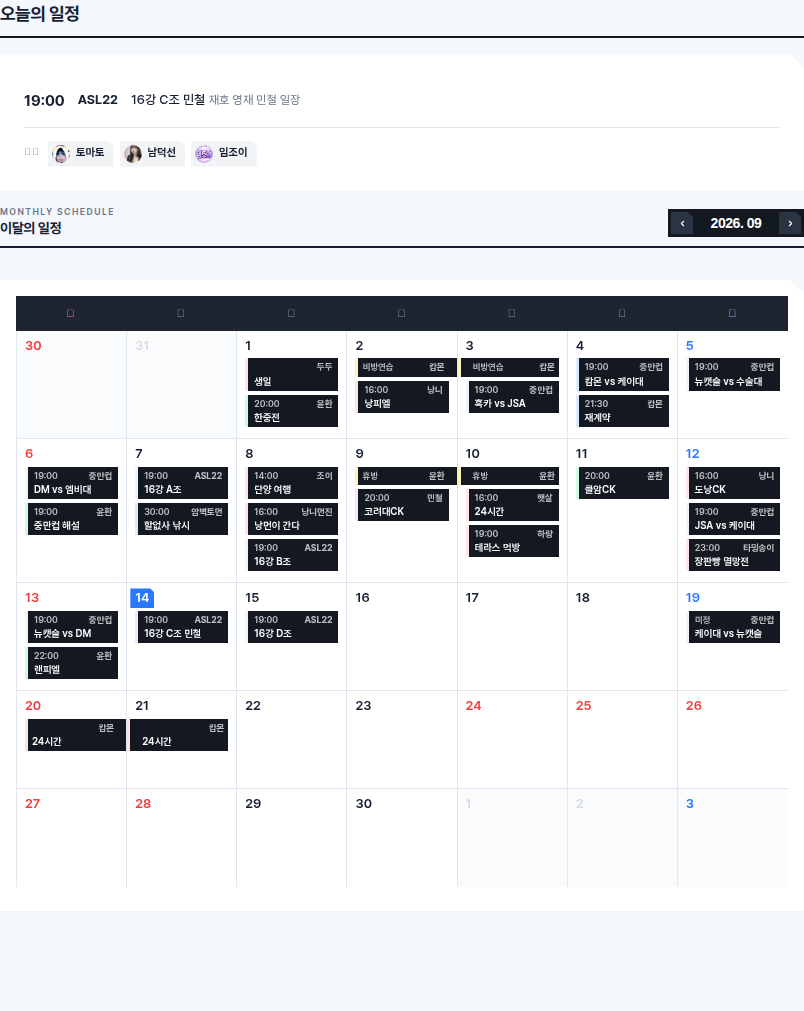
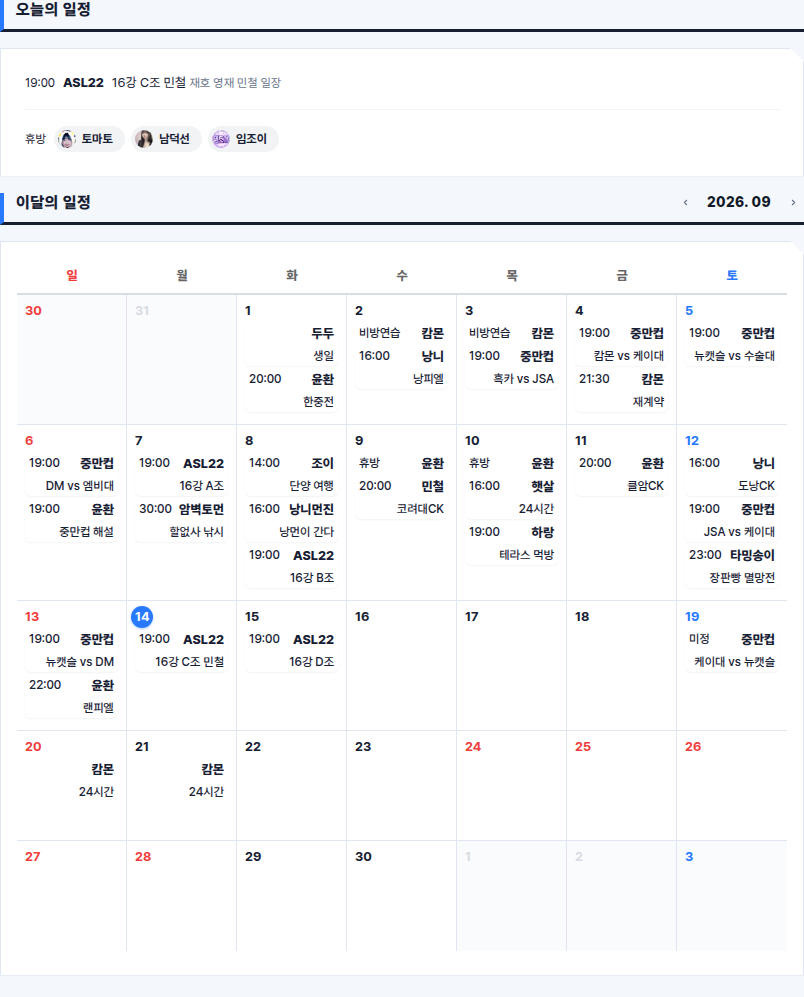
Add files via upload

diff --git a/docs/redesign.css b/docs/redesign.css
@@ -1539,3 +1539,123 @@ tbody tr:first-child .synergy-bar i { background: #141821; }
 }
 
 /* 5. 어드민은 본 페이지의 redesign.css를 함께 사용하므로 일정표도 동일한 노치/색상 규칙을 공유한다. */
+
+
+/* ============================================================
+   사용자 추가 보정 — 일정 색상 / 섹션 레일 / 노치 윤곽
+   ============================================================ */
+
+/* 일정 색상은 왼쪽 엣지만 바꾸는 것이 아니라 일정 박스 전체 배경에 적용한다. */
+.cal-cell-event,
+.cal-cell-event.cal-longterm-bar {
+    background: var(--ev-color, var(--color-ink, #141821)) !important;
+    color: #fff;
+    border-left: 3px solid rgba(255,255,255,.26);
+    clip-path: polygon(0 0, calc(100% - 5px) 0, 100% 5px, 100% 100%, 0 100%) !important;
+    filter: drop-shadow(0 0 0 var(--color-border));
+}
+.cal-day-cell.today .cal-cell-event,
+.cal-day-cell.today .cal-cell-event.cal-longterm-bar {
+    background: var(--ev-color, var(--color-ink, #141821)) !important;
+}
+.cal-event-desc {
+    text-align: right !important;
+}
+
+/* 일정 제목/오늘의 일정/티어 제목의 영문 레일은 다른 section-title과 동일하게 통일한다.
+   한국어 제목 아래의 가로 구분선과 같은 축을 유지하고, 영문은 위 한 줄을 사용한다. */
+.section-title.cal-month-section-title {
+    display: flex !important;
+    flex-wrap: wrap !important;
+    align-items: center !important;
+    gap: 0 !important;
+    min-height: 32px !important;
+    height: auto !important;
+    padding: 0 0 9px !important;
+    margin-bottom: 16px !important;
+    border-left: 0 !important;
+    border-bottom: 2px solid var(--color-text-main) !important;
+}
+.section-title.cal-month-section-title::before {
+    content: attr(data-en) !important;
+    flex: 0 0 100% !important;
+    order: -1 !important;
+    display: block !important;
+    margin: 0 0 5px 0 !important;
+    color: var(--color-text-sub) !important;
+    font-family: 'Chakra Petch','Pretendard',sans-serif !important;
+    font-size: 9px !important;
+    font-weight: 600 !important;
+    line-height: 1 !important;
+    letter-spacing: .16em !important;
+    text-transform: uppercase !important;
+}
+.section-title.cal-month-section-title .section-title-label {
+    order: 1 !important;
+    flex: 0 0 auto !important;
+    display: inline-flex !important;
+    align-items: center !important;
+}
+.section-title.cal-month-section-title .cal-nav-group {
+    order: 2 !important;
+    margin-left: auto !important;
+}
+
+/* 티어 제목도 영문 레일이 다른 section-title과 같은 한 줄 폭을 갖도록 고정한다. */
+.tier-row > .section-title[data-en] {
+    display: flex !important;
+    flex-wrap: wrap !important;
+    align-items: center !important;
+}
+.tier-row > .section-title[data-en]::before {
+    flex: 0 0 100% !important;
+    order: -1 !important;
+    display: block !important;
+    margin-bottom: 5px !important;
+}
+
+/* 노치 버튼의 테두리는 border가 아니라 잘린 외곽선을 따라가는 drop-shadow로 만든다. */
+.home-carousel .home-hero-links a {
+    position: relative;
+    border: 0 !important;
+    clip-path: polygon(0 0, calc(100% - 8px) 0, 100% 8px, 100% 100%, 0 100%) !important;
+    filter: drop-shadow(0 0 0 rgba(255,255,255,.32));
+}
+.home-carousel .home-hero-links a::before {
+    content: none !important;
+}
+.home-carousel .home-hero-links a:hover {
+    filter: drop-shadow(0 0 0 var(--color-primary));
+}
+
+/* 홈 최근공지: 목록의 첫 카드만 노치. 이어지는 카드들은 하나의 세로 리스트로 유지한다. */
+.home-notice-list > .home-notice-card {
+    clip-path: none !important;
+    filter: none;
+}
+.home-notice-list > .home-notice-card:first-child {
+    clip-path: polygon(0 0, calc(100% - 14px) 0, 100% 14px, 100% 100%, 0 100%) !important;
+    filter: drop-shadow(0 0 0 var(--color-border));
+}
+
+/* 공지 페이지 오른쪽 지난 글 목록도 목록 전체 외곽만 노치 처리한다. */
+#news-past-list {
+    clip-path: polygon(0 0, calc(100% - 14px) 0, 100% 14px, 100% 100%, 0 100%) !important;
+    filter: drop-shadow(0 0 0 var(--color-border));
+}
+#news-past-list .home-notice-card {
+    clip-path: none !important;
+    filter: none;
+}
+
+/* 티어 사이드바 전체/방송중 바는 바 자체의 노치 윤곽을 살리고 내부 선택지는 그대로 둔다. */
+.selection-layout > .tier-bar .bar-scope {
+    clip-path: polygon(0 0, calc(100% - 8px) 0, 100% 8px, 100% 100%, 0 100%) !important;
+    filter: drop-shadow(0 0 0 var(--color-border));
+}
+
+/* 선택 박스/영문 레일 등 작은 노치 요소의 외곽선도 동일한 방식으로 보강 */
+.section-title,
+.section-title-sm {
+    position: relative;
+}

diff --git a/templates/assets/redesign.css b/templates/assets/redesign.css
@@ -1539,3 +1539,123 @@ tbody tr:first-child .synergy-bar i { background: #141821; }
 }
 
 /* 5. 어드민은 본 페이지의 redesign.css를 함께 사용하므로 일정표도 동일한 노치/색상 규칙을 공유한다. */
+
+
+/* ============================================================
+   사용자 추가 보정 — 일정 색상 / 섹션 레일 / 노치 윤곽
+   ============================================================ */
+
+/* 일정 색상은 왼쪽 엣지만 바꾸는 것이 아니라 일정 박스 전체 배경에 적용한다. */
+.cal-cell-event,
+.cal-cell-event.cal-longterm-bar {
+    background: var(--ev-color, var(--color-ink, #141821)) !important;
+    color: #fff;
+    border-left: 3px solid rgba(255,255,255,.26);
+    clip-path: polygon(0 0, calc(100% - 5px) 0, 100% 5px, 100% 100%, 0 100%) !important;
+    filter: drop-shadow(0 0 0 var(--color-border));
+}
+.cal-day-cell.today .cal-cell-event,
+.cal-day-cell.today .cal-cell-event.cal-longterm-bar {
+    background: var(--ev-color, var(--color-ink, #141821)) !important;
+}
+.cal-event-desc {
+    text-align: right !important;
+}
+
+/* 일정 제목/오늘의 일정/티어 제목의 영문 레일은 다른 section-title과 동일하게 통일한다.
+   한국어 제목 아래의 가로 구분선과 같은 축을 유지하고, 영문은 위 한 줄을 사용한다. */
+.section-title.cal-month-section-title {
+    display: flex !important;
+    flex-wrap: wrap !important;
+    align-items: center !important;
+    gap: 0 !important;
+    min-height: 32px !important;
+    height: auto !important;
+    padding: 0 0 9px !important;
+    margin-bottom: 16px !important;
+    border-left: 0 !important;
+    border-bottom: 2px solid var(--color-text-main) !important;
+}
+.section-title.cal-month-section-title::before {
+    content: attr(data-en) !important;
+    flex: 0 0 100% !important;
+    order: -1 !important;
+    display: block !important;
+    margin: 0 0 5px 0 !important;
+    color: var(--color-text-sub) !important;
+    font-family: 'Chakra Petch','Pretendard',sans-serif !important;
+    font-size: 9px !important;
+    font-weight: 600 !important;
+    line-height: 1 !important;
+    letter-spacing: .16em !important;
+    text-transform: uppercase !important;
+}
+.section-title.cal-month-section-title .section-title-label {
+    order: 1 !important;
+    flex: 0 0 auto !important;
+    display: inline-flex !important;
+    align-items: center !important;
+}
+.section-title.cal-month-section-title .cal-nav-group {
+    order: 2 !important;
+    margin-left: auto !important;
+}
+
+/* 티어 제목도 영문 레일이 다른 section-title과 같은 한 줄 폭을 갖도록 고정한다. */
+.tier-row > .section-title[data-en] {
+    display: flex !important;
+    flex-wrap: wrap !important;
+    align-items: center !important;
+}
+.tier-row > .section-title[data-en]::before {
+    flex: 0 0 100% !important;
+    order: -1 !important;
+    display: block !important;
+    margin-bottom: 5px !important;
+}
+
+/* 노치 버튼의 테두리는 border가 아니라 잘린 외곽선을 따라가는 drop-shadow로 만든다. */
+.home-carousel .home-hero-links a {
+    position: relative;
+    border: 0 !important;
+    clip-path: polygon(0 0, calc(100% - 8px) 0, 100% 8px, 100% 100%, 0 100%) !important;
+    filter: drop-shadow(0 0 0 rgba(255,255,255,.32));
+}
+.home-carousel .home-hero-links a::before {
+    content: none !important;
+}
+.home-carousel .home-hero-links a:hover {
+    filter: drop-shadow(0 0 0 var(--color-primary));
+}
+
+/* 홈 최근공지: 목록의 첫 카드만 노치. 이어지는 카드들은 하나의 세로 리스트로 유지한다. */
+.home-notice-list > .home-notice-card {
+    clip-path: none !important;
+    filter: none;
+}
+.home-notice-list > .home-notice-card:first-child {
+    clip-path: polygon(0 0, calc(100% - 14px) 0, 100% 14px, 100% 100%, 0 100%) !important;
+    filter: drop-shadow(0 0 0 var(--color-border));
+}
+
+/* 공지 페이지 오른쪽 지난 글 목록도 목록 전체 외곽만 노치 처리한다. */
+#news-past-list {
+    clip-path: polygon(0 0, calc(100% - 14px) 0, 100% 14px, 100% 100%, 0 100%) !important;
+    filter: drop-shadow(0 0 0 var(--color-border));
+}
+#news-past-list .home-notice-card {
+    clip-path: none !important;
+    filter: none;
+}
+
+/* 티어 사이드바 전체/방송중 바는 바 자체의 노치 윤곽을 살리고 내부 선택지는 그대로 둔다. */
+.selection-layout > .tier-bar .bar-scope {
+    clip-path: polygon(0 0, calc(100% - 8px) 0, 100% 8px, 100% 100%, 0 100%) !important;
+    filter: drop-shadow(0 0 0 var(--color-border));
+}
+
+/* 선택 박스/영문 레일 등 작은 노치 요소의 외곽선도 동일한 방식으로 보강 */
+.section-title,
+.section-title-sm {
+    position: relative;
+}

diff --git a/docs/admin.html b/docs/admin.html
@@ -248,14 +248,14 @@
                     </div>
                     <div class="admin-form-row">
                         <select id="inputColor">
-                            <option value="#ffe4e6">🔴 빨강</option>
-                            <option value="#ffedd5">🟠 주황</option>
-                            <option value="#fef3c7">🟡 노랑</option>
-                            <option value="#d1fae5" selected>🟢 초록</option>
-                            <option value="#dbeafe">🔵 파랑</option>
-                            <option value="#e0e7ff">🟤 남색</option>
-                            <option value="#f3e8ff">🟣 보라</option>
-                            <option value="#f1f5f9">⚪ 회색</option>
+                            <option value="#ef4444">🔴 빨강</option>
+                            <option value="#f97316">🟠 주황</option>
+                            <option value="#eab308">🟡 노랑</option>
+                            <option value="#22c55e" selected>🟢 초록</option>
+                            <option value="#3b82f6">🔵 파랑</option>
+                            <option value="#6366f1">🟤 남색</option>
+                            <option value="#a855f7">🟣 보라</option>
+                            <option value="#64748b">⚪ 회색</option>
                             <option value="#141821">⚫ 검은색</option>
                         </select>
                         <textarea id="inputDesc" placeholder="간략내용 (줄바꿈 가능)"></textarea>
@@ -637,7 +637,7 @@
         document.getElementById('inputDesc').value = '';
         document.getElementById('inputDesc').style.height = '42px';
         document.getElementById('inputDetail').value = '';
-        document.getElementById('inputColor').value = '#d1fae5';
+        document.getElementById('inputColor').value = '#22c55e';
         document.getElementById('inputStartDate').value = calSelectedDateStr || '';
         document.getElementById('inputEndDate').value = '';
     };
@@ -692,7 +692,7 @@
         inputDesc.style.height = inputDesc.scrollHeight + 'px';
 
         document.getElementById('inputDetail').value = item.detail || '';
-        document.getElementById('inputColor').value = item.color || '#d1fae5';
+        document.getElementById('inputColor').value = item.color || '#22c55e';
 
         const rangeLabel = (item.endDate && item.endDate !== item.startDate) ? `${item.startDate} ~ ${item.endDate}` : item.startDate;
         document.getElementById('formTitle').innerText = `✏ [${rangeLabel}] 일정 수정`;

diff --git a/docs/index.html b/docs/index.html
@@ -30,7 +30,7 @@
     <link rel="stylesheet" as="style" crossorigin href="https://cdn.jsdelivr.net/gh/orioncactus/pretendard@v1.3.9/dist/web/static/pretendard.css" />
     <link rel="stylesheet" href="https://fonts.googleapis.com/css2?family=Chakra+Petch:wght@500;600;700&display=swap">
     <link rel="stylesheet" href="style.css?v=c389b6212b">
-    <link rel="stylesheet" href="redesign.css?v=163d3cc427">
+    <link rel="stylesheet" href="redesign.css?v=ca275c7e1d">
     <meta name="site-data-version" content="8ed9592a5a">
 </head>
 <body><header class="top-navbar">

diff --git a/docs/members/index.html b/docs/members/index.html
@@ -19,7 +19,7 @@
     <link rel="stylesheet" as="style" crossorigin href="https://cdn.jsdelivr.net/gh/orioncactus/pretendard@v1.3.9/dist/web/static/pretendard.css" />
     <link rel="stylesheet" href="https://fonts.googleapis.com/css2?family=Chakra+Petch:wght@500;600;700&display=swap">
     <link rel="stylesheet" href="style.css?v=c389b6212b">
-    <link rel="stylesheet" href="redesign.css?v=163d3cc427">
+    <link rel="stylesheet" href="redesign.css?v=ca275c7e1d">
     <meta name="site-data-version" content="8ed9592a5a">
 </head>
 <body><header class="top-navbar">

diff --git a/docs/records/index.html b/docs/records/index.html
@@ -19,7 +19,7 @@
     <link rel="stylesheet" as="style" crossorigin href="https://cdn.jsdelivr.net/gh/orioncactus/pretendard@v1.3.9/dist/web/static/pretendard.css" />
     <link rel="stylesheet" href="https://fonts.googleapis.com/css2?family=Chakra+Petch:wght@500;600;700&display=swap">
     <link rel="stylesheet" href="style.css?v=c389b6212b">
-    <link rel="stylesheet" href="redesign.css?v=163d3cc427">
+    <link rel="stylesheet" href="redesign.css?v=ca275c7e1d">
     <meta name="site-data-version" content="8ed9592a5a">
 </head>
 <body><header class="top-navbar">

diff --git a/docs/schedule/index.html b/docs/schedule/index.html
@@ -19,7 +19,7 @@
     <link rel="stylesheet" as="style" crossorigin href="https://cdn.jsdelivr.net/gh/orioncactus/pretendard@v1.3.9/dist/web/static/pretendard.css" />
     <link rel="stylesheet" href="https://fonts.googleapis.com/css2?family=Chakra+Petch:wght@500;600;700&display=swap">
     <link rel="stylesheet" href="style.css?v=c389b6212b">
-    <link rel="stylesheet" href="redesign.css?v=163d3cc427">
+    <link rel="stylesheet" href="redesign.css?v=ca275c7e1d">
     <meta name="site-data-version" content="8ed9592a5a">
 </head>
 <body><header class="top-navbar">

diff --git a/docs/stats/index.html b/docs/stats/index.html
@@ -19,7 +19,7 @@
     <link rel="stylesheet" as="style" crossorigin href="https://cdn.jsdelivr.net/gh/orioncactus/pretendard@v1.3.9/dist/web/static/pretendard.css" />
     <link rel="stylesheet" href="https://fonts.googleapis.com/css2?family=Chakra+Petch:wght@500;600;700&display=swap">
     <link rel="stylesheet" href="style.css?v=c389b6212b">
-    <link rel="stylesheet" href="redesign.css?v=163d3cc427">
+    <link rel="stylesheet" href="redesign.css?v=ca275c7e1d">
     <meta name="site-data-version" content="8ed9592a5a">
 </head>
 <body><header class="top-navbar">

diff --git a/docs/tier/index.html b/docs/tier/index.html
@@ -19,7 +19,7 @@
     <link rel="stylesheet" as="style" crossorigin href="https://cdn.jsdelivr.net/gh/orioncactus/pretendard@v1.3.9/dist/web/static/pretendard.css" />
     <link rel="stylesheet" href="https://fonts.googleapis.com/css2?family=Chakra+Petch:wght@500;600;700&display=swap">
     <link rel="stylesheet" href="style.css?v=c389b6212b">
-    <link rel="stylesheet" href="redesign.css?v=163d3cc427">
+    <link rel="stylesheet" href="redesign.css?v=ca275c7e1d">
     <meta name="site-data-version" content="8ed9592a5a">
 </head>
 <body><header class="top-navbar">

diff --git a/docs/tools/index.html b/docs/tools/index.html
@@ -19,7 +19,7 @@
     <link rel="stylesheet" as="style" crossorigin href="https://cdn.jsdelivr.net/gh/orioncactus/pretendard@v1.3.9/dist/web/static/pretendard.css" />
     <link rel="stylesheet" href="https://fonts.googleapis.com/css2?family=Chakra+Petch:wght@500;600;700&display=swap">
     <link rel="stylesheet" href="style.css?v=c389b6212b">
-    <link rel="stylesheet" href="redesign.css?v=163d3cc427">
+    <link rel="stylesheet" href="redesign.css?v=ca275c7e1d">
     <meta name="site-data-version" content="8ed9592a5a">
 </head>
 <body><header class="top-navbar">
